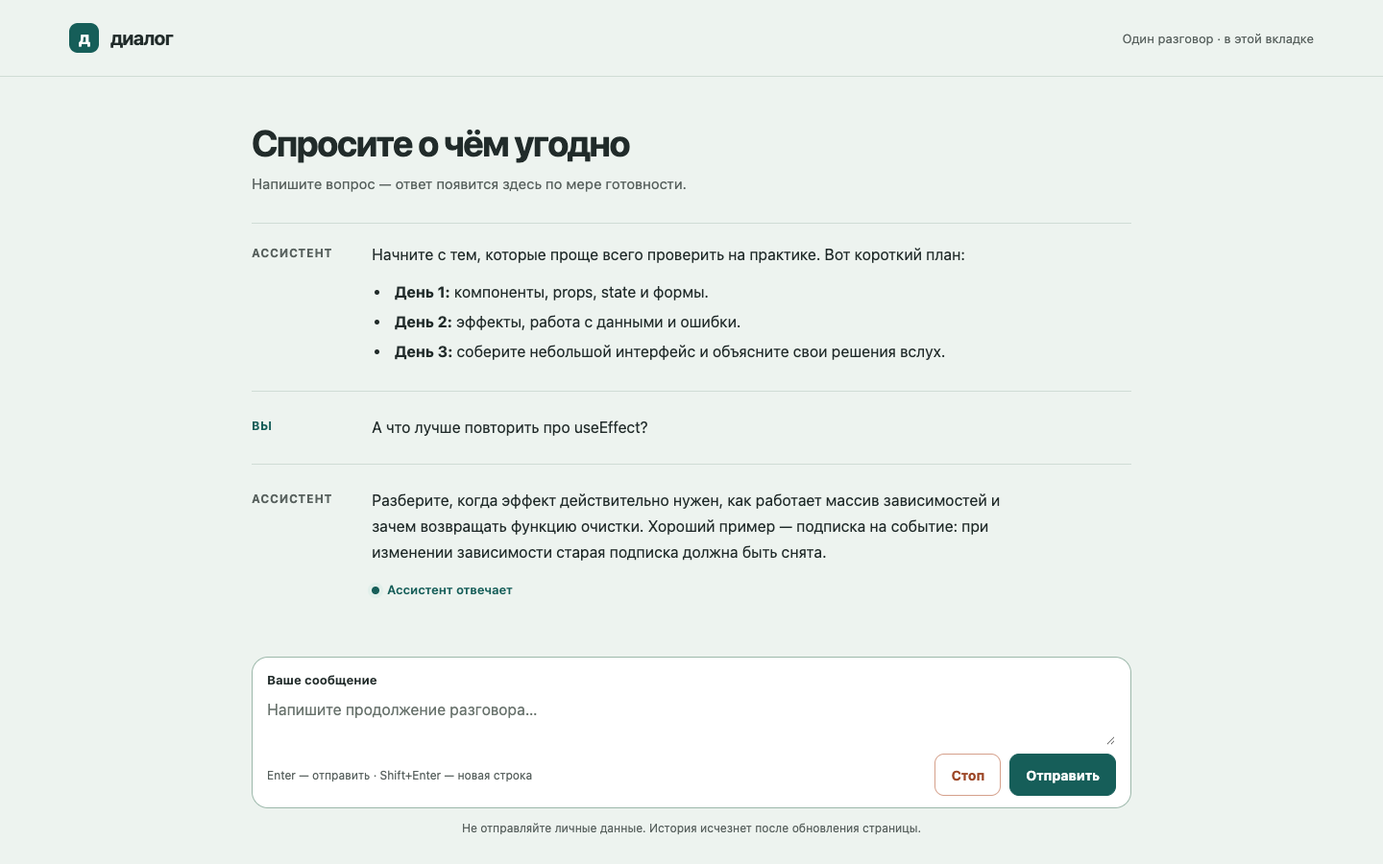
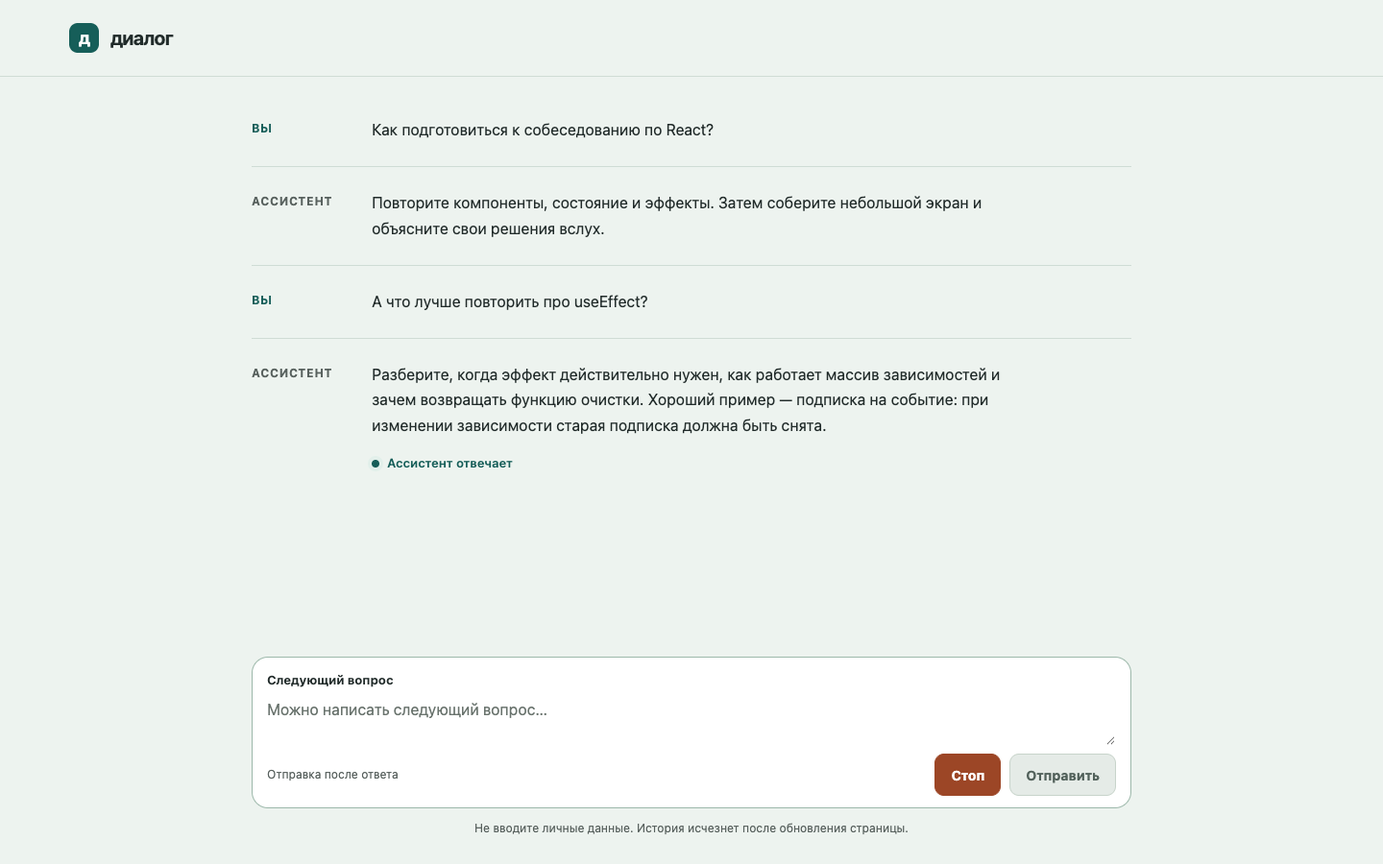
design: clarify chat actions and refine UX flow

diff --git a/docs/ui/preview.html b/docs/ui/preview.html
@@ -8,34 +8,35 @@
   <style>
     :root{color-scheme:light;--canvas:#edf3ef;--paper:#ffffff;--ink:#212b2a;--muted:#58615e;--line:#cfdcd5;--accent:#165e59;--accent-hover:#0e4945;--accent-soft:#e2efea;--warn:#9c4626;--warn-soft:#fff1e9;--focus:#0b716c;font-family:ui-sans-serif,-apple-system,BlinkMacSystemFont,"Segoe UI",Arial,sans-serif;font-synthesis:none}
     *{box-sizing:border-box}html,body{height:100%;margin:0}body{background:var(--canvas);color:var(--ink)}button,textarea{font:inherit}button{cursor:pointer}button:focus-visible,textarea:focus-visible{outline:3px solid var(--focus);outline-offset:3px}::selection{background:#b9ddd1;color:var(--ink)}
-    .shell{height:100dvh;min-height:480px;display:flex;flex-direction:column}.masthead{height:80px;flex:none;border-bottom:1px solid var(--line);display:flex;align-items:center;justify-content:space-between;padding:0 clamp(20px,5vw,76px)}.brand{display:flex;align-items:center;gap:12px;font-weight:700;font-size:20px;letter-spacing:-.035em}.brandmark{display:grid;place-items:center;width:31px;height:31px;border-radius:9px;background:var(--accent);color:white;font-size:18px;line-height:1}.masthead-note{font-size:13px;color:var(--muted)}
-    .workspace{width:min(100%,980px);margin:0 auto;flex:1;min-height:0;display:flex;flex-direction:column;padding:48px 32px 28px}.intro{flex:none;padding:0 0 30px;border-bottom:1px solid var(--line)}.intro h1{font-size:clamp(29px,3vw,38px);line-height:1.12;letter-spacing:-.045em;margin:0 0 9px;font-weight:700}.intro p{margin:0;color:var(--muted);font-size:15px;line-height:1.5}.thread{flex:1;min-height:0;padding:18px 0 34px;overflow:auto;scrollbar-color:#aebbb2 transparent}.message{display:grid;grid-template-columns:100px minmax(0,1fr);gap:25px;padding:24px 0;border-bottom:1px solid var(--line)}.message:last-child{border-bottom:0}.speaker{font-size:12px;font-weight:700;letter-spacing:.06em;text-transform:uppercase;color:var(--muted);padding-top:4px}.message.user .speaker{color:var(--accent)}.body{font-size:16px;line-height:1.68;max-width:69ch;overflow-wrap:anywhere}.body p{margin:0 0 12px}.body p:last-child{margin-bottom:0}.body ul{margin:8px 0 0;padding-left:20px}.body li{padding-left:4px;margin:4px 0}.body strong{font-weight:700}.status{display:flex;align-items:center;gap:8px;font-size:13px;font-weight:600;color:var(--accent);margin-top:15px}.pulse{height:8px;width:8px;border-radius:50%;background:var(--accent);box-shadow:0 0 0 4px var(--accent-soft)}
-    .composer-wrap{position:relative;flex:none}.composer{border:1px solid #9cb8aa;border-radius:17px;background:var(--paper);padding:15px 15px 12px}.field-label{display:block;font-size:13px;font-weight:650;margin:0 0 9px;color:var(--ink)}textarea{display:block;width:100%;min-height:50px;max-height:180px;resize:vertical;border:0;background:transparent;outline:0!important;padding:2px 0;color:var(--ink);line-height:1.5;font-size:16px}textarea::placeholder{color:#69736d}textarea:focus-visible{outline:0!important}.composer:focus-within{outline:3px solid var(--focus);outline-offset:3px}.actions{display:flex;justify-content:space-between;align-items:center;gap:12px;margin-top:8px}.hint{font-size:12px;color:var(--muted)}.buttons{display:flex;gap:9px}.button{min-height:44px;padding:0 16px;border-radius:10px;font-size:14px;font-weight:700;white-space:nowrap}.button.send{color:white;background:var(--accent);border:1px solid var(--accent)}.button.send:hover{background:var(--accent-hover)}.button.stop{color:var(--warn);background:#fff;border:1px solid #d5a08b}.button.stop:hover{background:var(--warn-soft)}.footnote{text-align:center;color:var(--muted);font-size:12px;line-height:1.4;margin:13px 0 0}
+    .shell{height:100dvh;min-height:480px;display:flex;flex-direction:column}.masthead{height:80px;flex:none;border-bottom:1px solid var(--line);display:flex;align-items:center;justify-content:flex-start;padding:0 clamp(20px,5vw,76px)}.brand{display:flex;align-items:center;gap:12px;font-weight:700;font-size:20px;letter-spacing:-.035em}.brandmark{display:grid;place-items:center;width:31px;height:31px;border-radius:9px;background:var(--accent);color:white;font-size:18px;line-height:1}
+    .workspace{width:min(100%,980px);margin:0 auto;flex:1;min-height:0;display:flex;flex-direction:column;padding:18px 32px 28px}.thread{flex:1;min-height:0;padding:0 0 34px;overflow:auto;scrollbar-color:#aebbb2 transparent}.message{display:grid;grid-template-columns:100px minmax(0,1fr);gap:25px;padding:24px 0;border-bottom:1px solid var(--line)}.message:last-child{border-bottom:0}.speaker{font-size:12px;font-weight:700;letter-spacing:.06em;text-transform:uppercase;color:var(--muted);padding-top:4px}.message.user .speaker{color:var(--accent)}.body{font-size:16px;line-height:1.68;max-width:69ch;overflow-wrap:anywhere}.body p{margin:0 0 12px}.body p:last-child{margin-bottom:0}.body ul{margin:8px 0 0;padding-left:20px}.body li{padding-left:4px;margin:4px 0}.body strong{font-weight:700}.status{display:flex;align-items:center;gap:8px;font-size:13px;font-weight:600;color:var(--accent);margin-top:15px}.pulse{height:8px;width:8px;border-radius:50%;background:var(--accent);box-shadow:0 0 0 4px var(--accent-soft)}
+    .composer-wrap{position:relative;flex:none}.composer{border:1px solid #9cb8aa;border-radius:17px;background:var(--paper);padding:15px 15px 12px}.field-label{display:block;font-size:13px;font-weight:650;margin:0 0 9px;color:var(--ink)}textarea{display:block;width:100%;min-height:50px;max-height:180px;resize:vertical;border:0;background:transparent;outline:0!important;padding:2px 0;color:var(--ink);line-height:1.5;font-size:16px}textarea::placeholder{color:#69736d}textarea:focus-visible{outline:0!important}.composer:focus-within{outline:3px solid var(--focus);outline-offset:3px}.actions{display:flex;justify-content:space-between;align-items:center;gap:12px;margin-top:8px}.hint{font-size:12px;color:var(--muted);max-width:360px;line-height:1.35}.buttons{display:flex;gap:9px}.button{min-height:44px;padding:0 16px;border-radius:10px;font-size:14px;font-weight:700;white-space:nowrap}.button.send{color:white;background:var(--accent);border:1px solid var(--accent)}.button.send:hover{background:var(--accent-hover)}.button.send:disabled{cursor:not-allowed;color:#52615b;background:#e5ebe7;border-color:#c8d4cb}.button.stop{color:#fff;background:var(--warn);border:1px solid var(--warn)}.button.stop:hover{background:#80361b}.footnote{text-align:center;color:var(--muted);font-size:12px;line-height:1.4;margin:13px 0 0}
     .variants{background:#ebece5;border-top:1px solid var(--line);padding:46px max(24px,calc((100vw - 916px)/2)) 68px}.variants h2{font-size:24px;margin:0 0 8px;letter-spacing:-.03em}.variants-lead{color:var(--muted);font-size:14px;line-height:1.5;margin:0 0 25px}.variant-grid{display:grid;grid-template-columns:repeat(2,minmax(0,1fr));gap:15px}.variant{background:var(--paper);border:1px solid var(--line);border-radius:14px;padding:20px;min-width:0}.variant h3{font-size:14px;margin:0 0 10px}.variant p{font-size:14px;line-height:1.5;margin:0 0 9px;overflow-wrap:anywhere}.variant p:last-child{margin-bottom:0}.badge{display:inline-block;border-radius:99px;padding:5px 9px;font-size:12px;font-weight:700;background:var(--accent-soft);color:var(--accent)}.badge.warning{background:var(--warn-soft);color:var(--warn)}.variant .tip{color:var(--muted);font-size:12px}.variant.wide{grid-column:1/-1}
-    @media(max-width:640px){.masthead{height:62px;padding:0 19px}.brand{font-size:18px}.brandmark{width:28px;height:28px;font-size:16px}.masthead-note{font-size:12px;max-width:125px;text-align:right}.workspace{padding:28px 18px 18px}.intro{padding-bottom:21px}.intro h1{font-size:30px}.intro p{font-size:14px}.thread{padding:10px 0 22px}.message{grid-template-columns:1fr;gap:7px;padding:20px 0}.speaker{padding:0;font-size:12px}.body{font-size:15px;line-height:1.6}.composer{padding:13px}.hint{display:none}.actions{justify-content:flex-end}.button{min-height:44px;padding:0 13px}.footnote{font-size:12px}.variants{padding:35px 18px 48px}.variant-grid{grid-template-columns:1fr}.variant.wide{grid-column:auto}}
-    @media(max-width:350px){.masthead-note{display:none}.buttons{width:100%}.button{flex:1}.workspace{padding-inline:14px}}
+    @media(max-width:640px){.masthead{height:62px;padding:0 19px}.brand{font-size:18px}.brandmark{width:28px;height:28px;font-size:16px}.workspace{padding:10px 18px 18px}.thread{padding:0 0 22px}.message{grid-template-columns:1fr;gap:7px;padding:20px 0}.speaker{padding:0;font-size:12px}.body{font-size:15px;line-height:1.6}.composer{padding:13px}.hint{display:block;max-width:150px}.actions{justify-content:space-between;align-items:flex-end}.button{min-height:44px;padding:0 13px}.footnote{font-size:12px}.variants{padding:35px 18px 48px}.variant-grid{grid-template-columns:1fr}.variant.wide{grid-column:auto}}
+    @media(max-width:350px){.buttons{width:100%}.button{flex:1}.workspace{padding-inline:14px}.actions{flex-direction:column;align-items:stretch}.hint{max-width:none}}
     @media(max-width:240px){.buttons{flex-direction:column}.actions{align-items:stretch}.button{width:100%}}
+    .sr-only{position:absolute;width:1px;height:1px;padding:0;margin:-1px;overflow:hidden;clip:rect(0,0,0,0);white-space:nowrap;border:0}
   </style>
 </head>
 <body>
   <div class="shell">
-    <header class="masthead"><div class="brand"><span class="brandmark" aria-hidden="true">д</span><span>диалог</span></div><span class="masthead-note">Один разговор · в этой вкладке</span></header>
+    <header class="masthead"><div class="brand"><span class="brandmark" aria-hidden="true">д</span><span>диалог</span></div></header>
     <main class="workspace">
-      <div class="intro"><h1>Спросите о чём угодно</h1><p>Напишите вопрос — ответ появится здесь по мере готовности.</p></div>
+      <h1 class="sr-only">Диалог с ИИ</h1>
       <section class="thread" aria-label="История разговора">
-        <article class="message user"><div class="speaker">Вы</div><div class="body"><p>Помоги составить план подготовки к собеседованию по React на три дня.</p></div></article>
-        <article class="message assistant"><div class="speaker">Ассистент</div><div class="body"><p>Начните с тем, которые проще всего проверить на практике. Вот короткий план:</p><ul><li><strong>День 1:</strong> компоненты, props, state и формы.</li><li><strong>День 2:</strong> эффекты, работа с данными и ошибки.</li><li><strong>День 3:</strong> соберите небольшой интерфейс и объясните свои решения вслух.</li></ul></div></article>
+        <article class="message user"><div class="speaker">Вы</div><div class="body"><p>Как подготовиться к собеседованию по React?</p></div></article>
+        <article class="message assistant"><div class="speaker">Ассистент</div><div class="body"><p>Повторите компоненты, состояние и эффекты. Затем соберите небольшой экран и объясните свои решения вслух.</p></div></article>
         <article class="message user"><div class="speaker">Вы</div><div class="body"><p>А что лучше повторить про useEffect?</p></div></article>
         <article class="message assistant"><div class="speaker">Ассистент</div><div class="body"><p>Разберите, когда эффект действительно нужен, как работает массив зависимостей и зачем возвращать функцию очистки. Хороший пример — подписка на событие: при изменении зависимости старая подписка должна быть снята.</p><div class="status" role="status"><span class="pulse" aria-hidden="true"></span>Ассистент отвечает</div></div></article>
       </section>
-      <div class="composer-wrap"><form class="composer" action="#" onsubmit="return false"><label class="field-label" for="question">Ваше сообщение</label><textarea id="question" placeholder="Напишите продолжение разговора…"></textarea><div class="actions"><span class="hint">Enter — отправить · Shift+Enter — новая строка</span><div class="buttons"><button class="button stop" type="button">Стоп</button><button class="button send" type="submit">Отправить</button></div></div></form><p class="footnote">Не отправляйте личные данные. История исчезнет после обновления страницы.</p></div>
+      <div class="composer-wrap"><form class="composer" action="#" onsubmit="return false"><label class="field-label" for="question">Следующий вопрос</label><textarea id="question" placeholder="Можно написать следующий вопрос…" aria-describedby="draft-hint"></textarea><div class="actions"><span class="hint" id="draft-hint">Отправка после ответа</span><div class="buttons"><button class="button stop" type="button" aria-label="Остановить ответ, Esc">Стоп</button><button class="button send" type="submit" disabled>Отправить</button></div></div></form><p class="footnote">Не вводите личные данные. История исчезнет после обновления страницы.</p></div>
     </main>
   </div>
   <section class="variants" aria-label="Примеры состояний для реализации"><h2>Состояния интерфейса</h2><p class="variants-lead">Эти фрагменты показывают текст и визуальные правила. Основной экран выше иллюстрирует потоковый ответ.</p><div class="variant-grid">
-    <div class="variant"><h3>Пустой разговор</h3><p>Спросите о чём угодно</p><p class="tip">Поле ввода находится сразу под приглашением; история скрыта до первого сообщения.</p></div>
+    <div class="variant"><h3>Пустой разговор</h3><p>Начните разговор</p><p class="tip">Приглашение и поле видны вместе; после отправки приглашение исчезает.</p></div>
     <div class="variant"><h3>Ожидание ответа</h3><span class="badge">Ассистент готовит ответ</span><p class="tip">Статус занимает место будущего сообщения. «Стоп» доступен сразу.</p></div>
     <div class="variant"><h3>Остановлено</h3><p>Разберите, когда эффект действительно нужен…</p><span class="badge warning">Ответ остановлен</span><p class="tip">Полученный текст остаётся; поле ввода снова активно.</p></div>
-    <div class="variant"><h3>Лимит бесплатной модели · 429</h3><p>Модель сейчас перегружена. Подождите немного и отправьте сообщение ещё раз.</p><p class="tip">Введённый текст и история сохраняются.</p></div>
+    <div class="variant"><h3>Лимит бесплатной модели · 429</h3><p>Лимит запросов к бесплатной модели достигнут. Подождите и попробуйте ещё раз.</p><p class="tip">История и черновик следующего вопроса сохраняются.</p></div>
     <div class="variant"><h3>Сеть недоступна</h3><p>Соединение прервалось. Проверьте сеть и отправьте сообщение ещё раз.</p><p class="tip">Если часть ответа уже пришла, она остаётся над ошибкой.</p></div>
     <div class="variant"><h3>Ответ завершён</h3><span class="badge">Готово</span><p class="tip">Служебный статус исчезает; можно задать следующий вопрос.</p></div>
   </div></section>

diff --git a/docs/ui/UI_SPEC.md b/docs/ui/UI_SPEC.md
@@ -8,11 +8,11 @@
 
 ## Компоновка и содержимое
 
-- `header` высотой 80 px на десктопе и 62 px на телефоне: название «диалог», справа «Один разговор · в этой вкладке». Без меню и выбора модели.
+- `header` высотой 80 px на десктопе и 62 px на телефоне: только название «диалог». Без меню, служебных подписей и выбора модели.
 - `main` шириной до 980 px с боковыми полями 32 px; при ширине до 640 px поля 18 px. Внутри — заголовок, прокручиваемая история и форма. Высота основной области не меньше оставшегося viewport; `100dvh` учитывает мобильную клавиатуру.
-- Заголовок «Спросите о чём угодно» и подстрочник «Напишите вопрос — ответ появится здесь по мере готовности». При первом сообщении заголовок можно уменьшить до компактной подписи или оставить; в прототипе он остаётся. Реализация должна сохранять максимум вертикального места для истории.
+- Только в пустом состоянии показывать приглашение «Начните разговор» и подстрочник «Задайте вопрос — ответ появится по мере генерации». После первой отправки приглашение исчезает, освобождая место для истории. В активном состоянии доступный заголовок страницы остаётся скрытым визуально (`sr-only`).
 - История — семантический список сообщений в `main`, порядок DOM хронологический. На десктопе роль занимает левую колонку 100 px, текст — правую; промежуток 25 px. На телефоне роль становится строкой над текстом. Максимальная длина строки ответа — 69 символов (`ch`). Сообщения разделяет линия, пузырей нет.
-- Внизу форма с видимым label «Ваше сообщение», `textarea`, кнопкой «Отправить» и, во время генерации, кнопкой «Стоп». Прототип показывает обе кнопки для состояния потока. В готовом приложении «Стоп» исчезает после завершения или ошибки. Под формой: «Не отправляйте личные данные. История исчезнет после обновления страницы».
+- Внизу форма с видимым label «Ваше сообщение» в покое и «Следующий вопрос» во время генерации. Пока ответ идёт, пользователь может набрать черновик, но «Отправить» отключена; рядом короткое пояснение «Отправка после ответа». «Стоп» остаётся доступной и заметной. После завершения или ошибки «Стоп» исчезает, «Отправить» снова включается при непустом черновике. Под формой: «Не вводите личные данные. История исчезнет после обновления страницы».
 - История прокручивается внутри области между заголовком и формой. При новых чанках следовать за низом только если пользователь уже был рядом с низом; чтение старого текста не прерывать. После отправки своего сообщения прокрутить его в видимую область. Форма остаётся доступной. На узком экране и при клавиатуре использовать `dvh`, не перекрывать кнопки.
 
 ## Токены
@@ -36,13 +36,13 @@
 
 | Состояние | Видимый текст и элементы | Доступные действия / сохранение |
 | --- | --- | --- |
-| Пустой чат | «Спросите о чём угодно», пояснение, поле с placeholder «Напишите вопрос…». История отсутствует. | Ввод и отправка. Пустую строку и пробелы не отправлять. |
+| Пустой чат | «Начните разговор», пояснение, поле с placeholder «Напишите вопрос…». История отсутствует. | Ввод и отправка. Пустую строку и пробелы не отправлять. |
 | Пользователь печатает | Введённый текст; кнопка «Отправить» активна при непустом содержимом. | Enter отправляет, Shift+Enter добавляет строку. До отправки текст сохраняется в поле. |
-| Ожидание первого чанка | Сообщение пользователя уже в истории; новая строка ассистента «Ассистент готовит ответ». | «Стоп» и Esc доступны сразу. Форму можно показать заблокированной на время единственной генерации; черновик не очищать при ошибке. |
-| Поток | Приходящий текст виден в сообщении; компактный статус «Ассистент отвечает» под ним. | «Стоп» и Esc. Полученные символы сразу остаются в истории. Не озвучивать каждый чанк скринридером. |
+| Ожидание первого чанка | Сообщение пользователя уже в истории; новая строка ассистента «Ассистент готовит ответ». Пустое приглашение скрыто. | «Стоп» и Esc доступны сразу. Поле принимает черновик следующего вопроса; отправка отключена до конца ответа. |
+| Поток | Приходящий текст виден в сообщении; компактный статус «Ассистент отвечает» под ним. | «Стоп» и Esc. Можно набрать черновик, но нельзя запустить второй запрос. Полученные символы сразу остаются в истории. Не озвучивать каждый чанк скринридером. |
 | Остановлено | Полученный фрагмент и подпись «Ответ остановлен». Если чанков не было — «Ответ остановлен до начала». | Форма снова активна, фокус в поле. Фрагмент остаётся в истории и доступен для чтения. |
 | Завершено | Полный ответ без индикатора; кнопка «Стоп» убрана. | Следующий вопрос. История текущей вкладки сохраняется. |
-| 429 | «Модель сейчас перегружена. Подождите немного и отправьте сообщение ещё раз.» | Поле и история сохраняются; пользователь повторяет вручную. Автоповтора нет. |
+| 429 | «Лимит запросов к бесплатной модели достигнут. Подождите и попробуйте ещё раз.» | История и черновик следующего вопроса сохраняются; пользователь повторяет вручную. Автоповтора нет. |
 | Таймаут | «Ответ занял слишком много времени. Отправьте сообщение ещё раз.» | Убрать индикатор и вернуть форму. Если часть ответа есть, оставить её. |
 | Сеть недоступна | «Соединение прервалось. Проверьте сеть и отправьте сообщение ещё раз.» | Поле снова доступно. Полученный фрагмент остаётся, ошибка следует за ним. |
 | Ошибка после части ответа | Сохранившийся фрагмент и конкретная подпись ошибки под ним. | Не заменять фрагмент ошибкой; следующий запрос возможен после ошибки. |
@@ -51,7 +51,7 @@
 
 ## Клавиатура и доступность
 
-- Порядок Tab: поле → «Стоп» во время генерации → «Отправить». Скрытые кнопки не остаются в Tab-порядке. Все кнопки имеют текстовые доступные имена; зона нажатия не меньше 44×44 px.
+- Порядок Tab во время генерации: поле → «Стоп»; отключённая «Отправить» не попадает в порядок. В покое: поле → «Отправить». Скрытые кнопки не остаются в Tab-порядке. Все кнопки имеют текстовые доступные имена; зона нажатия не меньше 44×44 px.
 - Enter отправляет, Shift+Enter создаёт перенос, Esc останавливает активный поток. Во время потока фокус не прыгает сам; после Stop возвращается в поле. После ответа не перемещать фокус без команды пользователя.
 - Браузерный `outline` заменён на контрастное кольцо 3 px `:focus-visible`; для textarea кольцо находится на всей форме через `:focus-within`. Не убирать фокус без замены.
 - Новое состояние объявлять через отдельный `role="status"`/умеренный `aria-live="polite"`. Текст ответа оставлять в обычном потоке чтения, не делать весь поток live-регионом. Ошибка: `role="alert"` один раз при появлении.

diff --git a/docs/ui/UX_REVIEW.md b/docs/ui/UX_REVIEW.md
@@ -1,0 +1,20 @@
+# D01 — отдельный проход по поведению пользователя
+
+Проверен статический прототип в Chromium на 390×844 и 1440×900. Обсуждение началось с непонятной подписи в правом углу. Ниже — путь пользователя и решения для следующего UI-этапа. Обновлённые снимки: [телефон](./mobile.png), [десктоп](./desktop.png). Прототип показывает потоковый ответ; остальные состояния заданы в [UI_SPEC.md](./UI_SPEC.md).
+
+| Шаг | Что пользователю нужно понять или сделать | Наблюдение и изменение |
+| --- | --- | --- |
+| 1. Первый вход | Сразу найти поле и задать вопрос. | Приглашение показывается только когда сообщений нет. Правый текст «Один разговор · в этой вкладке» убран: он не обозначал действие и дублировал пояснение под формой. |
+| 2. Отправка | Убедиться, что вопрос принят. | Свой текст сразу появляется в истории; вместо пустого пространства создаётся строка «Ассистент готовит ответ». «Стоп» доступна до первого чанка. |
+| 3. Поток ответа | Читать текст и понимать, что генерация ещё идёт. | Статус «Ассистент отвечает» остаётся рядом с текущим ответом. Большой заголовок пустого состояния убран из активного разговора, поэтому на телефоне видно больше текста. |
+| 4. Следующая мысль во время потока | Не потерять возникший вопрос и не запустить второй запрос. | Поле остаётся доступным для черновика. «Отправить» отключена, короткая подпись объясняет почему; «Стоп» — единственное активное действие. Черновик сохраняется после завершения, остановки и ошибки. |
+| 5. Остановка | Прервать ожидание без потери результата. | Уже пришедший текст остаётся в истории с подписью «Ответ остановлен»; поле и отправка снова доступны. Esc выполняет то же действие, что кнопка. |
+| 6. Ошибка | Понять причину и следующий шаг. | 429 описан как лимит запросов, сеть — как обрыв соединения; статус потока убирается. Частичный ответ и черновик остаются. Автоматической повторной отправки нет. |
+| 7. Продолжение | Задать следующий вопрос с контекстом. | История занимает большую часть высоты, форма остаётся снизу. При новом ответе автопрокрутка допустима только когда пользователь находится у конца истории; чтение старых сообщений не прерывать. |
+
+## Риски для реализации
+
+- Прототип не выполняет отправку и остановку, поэтому он подтверждает компоновку и подписи, но не фактическое поведение клавиш, фокуса или сети. Это проверить на U04/C06/Q07.
+- Если пользователь начал черновик во время генерации, приложение не должно очищать его при приходе чанков, Stop или ошибке. Отправка включается после завершения текущего запроса и только для непустого черновика.
+- На мобильной клавиатуре использовать доступную высоту `dvh`; после изменения высоты экрана сохранять текущую позицию чтения либо следовать за ответом, если пользователь уже был внизу. Не прокручивать историю вниз насильно.
+- Наличие двух кнопок в строке не должно создавать две активные операции: состояние `disabled` у «Отправить» обязательно семантическое, а не только цветовое.

diff --git a/WORKLOG.md b/WORKLOG.md
@@ -14,5 +14,6 @@
 | 2026-09-25 | После повторного входа кандидата в GitHub Codex создал публичный `stupidkubik/ai-chat-test`, подключил `origin` и отправил `main`. | `gh auth status` подтвердил вход; GitHub API показал `isPrivate: false` и default branch `main`; локальная `main` отслеживает `origin/main`. Секреты и код приложения ещё не добавлялись. | Предыдущее препятствие с недействительным токеном снято. PR D01 откроется после создания и проверки дизайн-артефактов. |
 | 2026-09-25 | По просьбе кандидата Codex подготовил окружение для уже созданного им ключа OpenRouter. | Добавлены отслеживаемый `.env.example` без значения и локальный `.env.local` с пустым полем `OPENROUTER_API_KEY`; проверена существующая запись `.gitignore` для `.env.local`, права локального файла ограничены владельцем. | Само значение ключа кандидат вставит в локальный файл. Ключ не передавался в чат, Git или логи; живой запрос пока не проверялся. |
 | 2026-09-25 | Codex: D01, установил локальный Impeccable из `pbakaus/impeccable`, подготовил `docs/ui/UI_SPEC.md`, самостоятельный HTML/CSS-прототип и снимки 1440×900 и 390×844. | Прототип открыт в Chromium через Playwright. На 390/320/200 CSS px нет горизонтального скролла, форма и кнопки в viewport; кнопки высотой 44 px. При фокусе textarea форма получает контрастное кольцо 3 px. Impeccable `detect` запущен один раз. | Первый вариант уводил форму ниже экрана — ограничена высота рабочей области и прокрутка оставлена истории. По замечаниям детектора увеличены мелкие подписи, убраны декоративная пульсация и сочетание тонкой границы с размытой тенью, палитра сделана прохладнее. Прототип остаётся статическим; поведение Enter/Esc задано контрактом для UI-этапа. |
+| 2026-09-25 | По отзыву кандидата Codex провёл отдельный UX-проход по активному диалогу; результаты записал в `docs/ui/UX_REVIEW.md`, обновил прототип и UI-контракт. | Текущий экран до правок просмотрен в Chromium на 390×844; замечены непонятная подпись справа, пустое приглашение над непустой историей и две визуально активные кнопки во время потока. После правок пересняты 1440×900 и 390×844; на 390/320/200 px нет горизонтального скролла, форма видна, кнопка «Стоп» высотой 44 px; Tab из поля ведёт на «Стоп», «Отправить» семантически отключена. Impeccable `detect`: 0 находок. | Правый текст убран; приглашение оставлено только для пустого чата; черновик следующего вопроса разрешён во время потока, но «Отправить» отключена до конца ответа, а «Стоп» выделена. Текст 429 уточнён как лимит запросов. |
 
 Для следующих этапов указывать конкретный запрос агенту, изменённые файлы, результат `lint`/`build`/ручного теста, найденный недостаток и своё исправление. Если агент предложил сомнительное решение, записать, почему его отклонили.

diff --git a/docs/PROGRESS.md b/docs/PROGRESS.md
@@ -6,7 +6,7 @@
 
 | ID | Статус | Ответственный | Ветка | Коммит / артефакты | Проверки и доказательства | PR → `main` / merge | Блокер / решение |
 | --- | --- | --- | --- | --- | --- | --- | --- |
-| D01 | на проверке | Дизайн-агент → координатор | `codex/d01-design` | `1201781`; `docs/ui/UI_SPEC.md`, `preview.html`, `desktop.png`, `mobile.png` | Chromium: 1440×900, 390×844, 320 px и 200 px без горизонтального скролла; фокус 3 px; Impeccable detect и исправления | [PR #1](https://github.com/stupidkubik/ai-chat-test/pull/1) открыт, merge ожидает проверки | Нужна проверка дизайна человеком перед merge и S02 |
+| D01 | на проверке | Дизайн-агент → координатор | `codex/d01-design` | `docs/ui/UI_SPEC.md`, `UX_REVIEW.md`, `preview.html`, `desktop.png`, `mobile.png` | Отдельный UX-проход; Chromium 1440×900, 390×844, 320 и 200 px без горизонтального скролла; Tab из поля на «Стоп»; Impeccable detect: 0 находок | [PR #1](https://github.com/stupidkubik/ai-chat-test/pull/1) открыт, merge ожидает проверки | Повторная проверка дизайна человеком перед merge и S02 |
 | S02 | не начато | Агент каркаса → координатор | `codex/s02-scaffold` | — | — | — | — |
 | T03 | не начато | Агент тестового окружения → координатор | `codex/t03-test-harness` | — | — | — | — |
 | U04 | не начато | UI-агент → координатор | `codex/u04-ui` | — | — | — | — |
